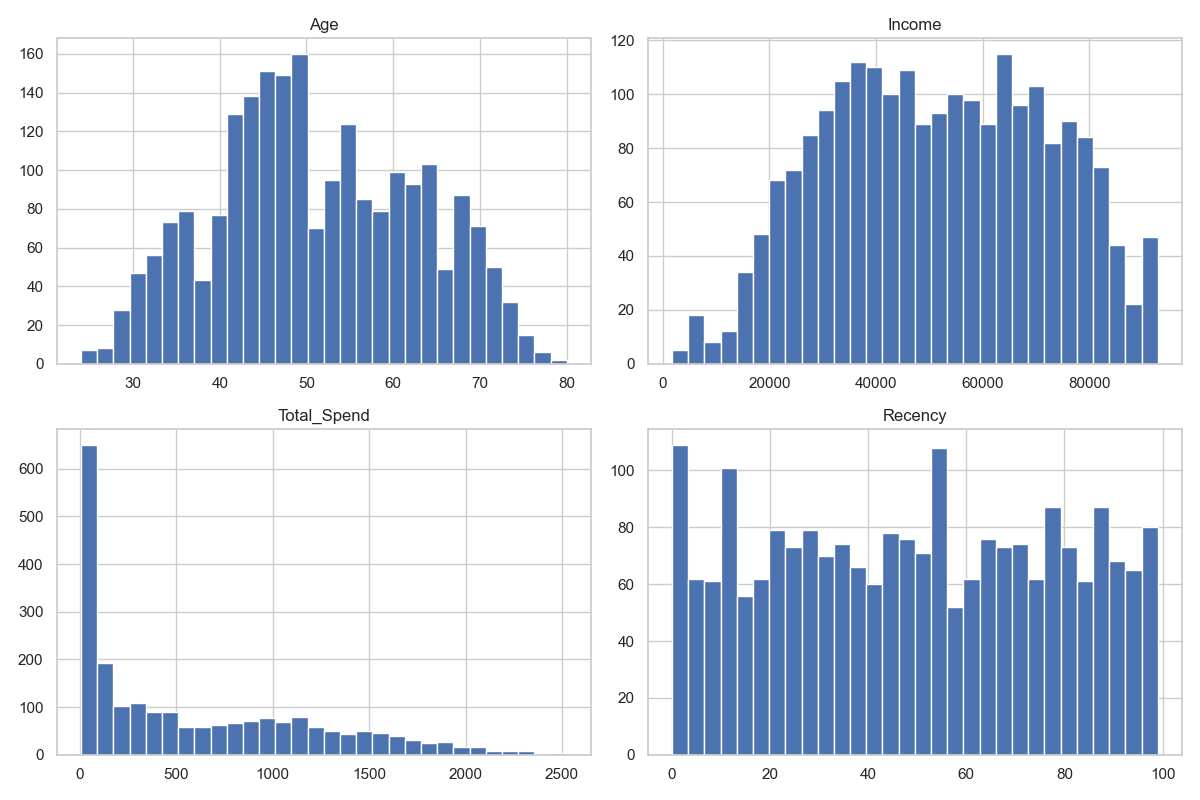
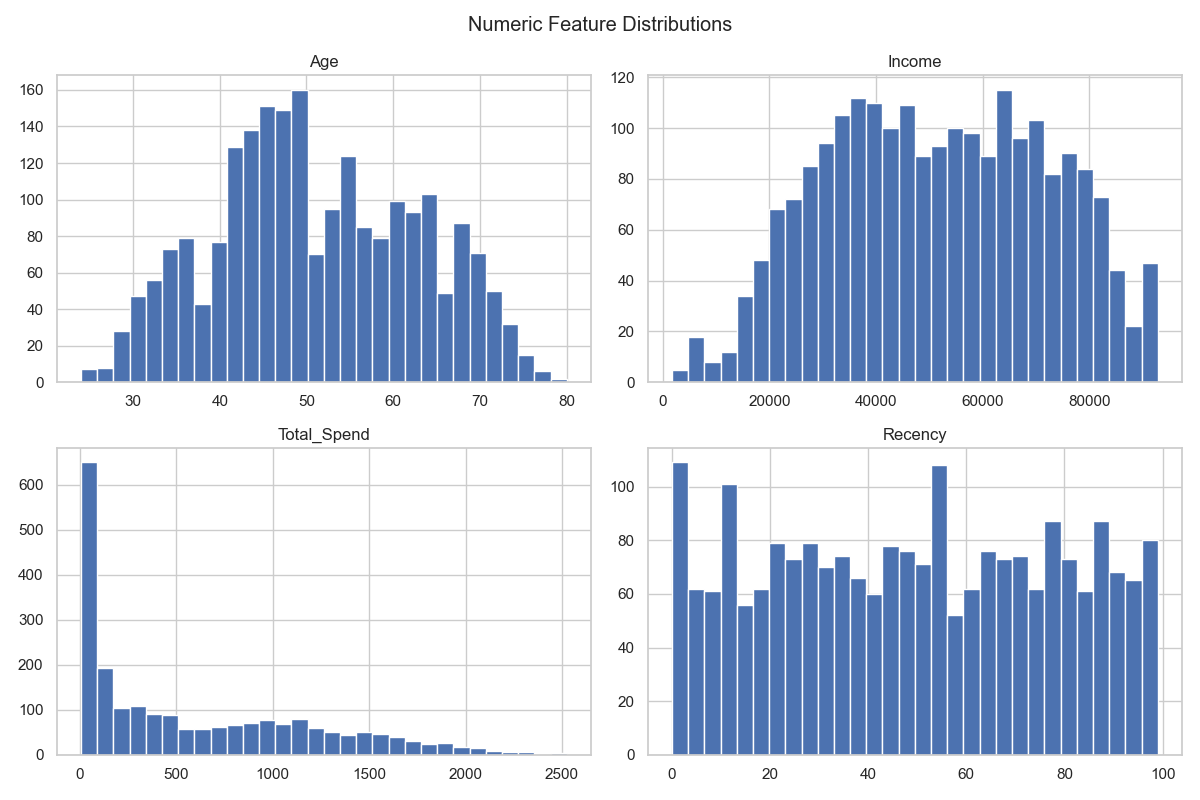
Add cluster analysis

diff --git a/src/eda.py b/src/eda.py
@@ -4,8 +4,59 @@ from src.config import FIG_DIR
 
 sns.set(style="whitegrid")
 
+import matplotlib.pyplot as plt
+import seaborn as sns
+from src.config import FIG_DIR
+
+sns.set(style="whitegrid")
+
 def run_eda(df):
-    df[["Age", "Income", "Total_Spend", "Recency"]].hist(bins=30, figsize=(12,8))
+    """
+    Runs full EDA and saves all figures to disk.
+    """
+
+    # 1. Numeric distributions
+    df[["Age", "Income", "Total_Spend", "Recency"]].hist(
+        bins=30, figsize=(12, 8)
+    )
+    plt.suptitle("Numeric Feature Distributions")
     plt.tight_layout()
     plt.savefig(FIG_DIR / "numeric_distributions.png")
     plt.close()
+
+    # 2. Spend by product
+    spend_cols = [
+        "MntWines", "MntFruits", "MntMeatProducts",
+        "MntFishProducts", "MntSweetProducts", "MntGoldProds"
+    ]
+    avg_spend = df[spend_cols].mean().sort_values(ascending=False)
+
+    plt.figure(figsize=(8, 4))
+    sns.barplot(x=avg_spend.index, y=avg_spend.values)
+    plt.xticks(rotation=45)
+    plt.title("Average Spend by Product Category")
+    plt.tight_layout()
+    plt.savefig(FIG_DIR / "avg_spend_products.png")
+    plt.close()
+
+    # 3. Channel usage
+    channel_cols = [
+        "NumWebPurchases", "NumCatalogPurchases", "NumStorePurchases"
+    ]
+    df[channel_cols].mean().plot(kind="bar", figsize=(6, 4))
+    plt.title("Average Channel Usage")
+    plt.tight_layout()
+    plt.savefig(FIG_DIR / "channel_usage.png")
+    plt.close()
+
+    # 4. Campaign response (if exists)
+    
+    plt.figure(figsize=(6, 4))
+    sns.boxplot(data=df, x="Response", y="Total_Spend")
+    plt.title("Spend vs Campaign Response")
+    plt.tight_layout()
+    plt.savefig(FIG_DIR / "spend_vs_response.png")
+    plt.close()
+
+    print("EDA completed. Figures saved to:", FIG_DIR)
+

diff --git a/src/segmentation.py b/src/segmentation.py
@@ -18,3 +18,27 @@ def run_segmentation(df, k=4):
     plt.close()
 
     return df
+def label_clusters(df):
+    cluster_map = {
+        0: "Aspirational Spenders",
+        1: "Low-Value / Entry Customers",
+        2: "High-Value Loyalists",
+        3: "Convenience-Oriented Shoppers"
+    }
+
+    df["Cluster_Name"] = df["Cluster"].map(cluster_map)
+    return df
+def cluster_summary(df):
+    summary = (
+        df.groupby("Cluster_Name")[[
+            "Income", "Total_Spend", "Age", "Total_Kids", "Recency"
+        ]]
+        .mean()
+        .round(1)
+    )
+
+    print("\nCluster Summary (Mean Values):")
+    print(summary)
+
+    return summary
+

diff --git a/main.py b/main.py
@@ -6,7 +6,7 @@ sys.path.insert(0, str(PROJECT_ROOT))
 from src.data_loader import load_data
 from src.feature_engineering import clean_and_engineer
 from src.eda import run_eda
-from src.segmentation import run_segmentation
+from src.segmentation import run_segmentation, label_clusters, cluster_summary
 from src.modeling import run_campaign_model
 
 def main():
@@ -14,7 +14,9 @@ def main():
     df = clean_and_engineer(df)
     run_eda(df)
     df = run_segmentation(df)
+    df = label_clusters(df)
     run_campaign_model(df)
+    cluster_summary(df)
     print("Pipeline completed successfully")
 
 if __name__ == "__main__":
